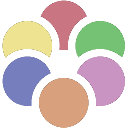
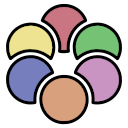
Show AP item category + fix vanilla d3 access

Changed region(s): [[0.0, 0.0, 1.0, 1.0]]

diff --git a/src/ServiceContainer/ComponentModelContainer.cs b/src/ServiceContainer/ComponentModelContainer.cs
@@ -116,16 +116,6 @@ public class ComponentModelContainer : IServiceContainer, IBuildable
             "MinishootRandomizer.Resources.images"
         ));
 
-        _serviceContainer.AddService(typeof(IItemPresentationProvider), new CoreItemPresentationProvider(
-            (ISpriteProvider)_serviceContainer.GetService(typeof(ISpriteProvider))
-        ));
-
-        _serviceContainer.AddService(typeof(IGameObjectFactory), new SpriteBasedFactory(
-            (CloneBasedFactory)_serviceContainer.GetService(typeof(CloneBasedFactory)),
-            (IItemPresentationProvider)_serviceContainer.GetService(typeof(IItemPresentationProvider)),
-            (ILogger)_serviceContainer.GetService(typeof(ILogger))
-        ));
-
         _serviceContainer.AddService(typeof(PickupManager), new PickupManager());
         ((GameEventDispatcher)_serviceContainer.GetService(typeof(GameEventDispatcher))).LoadingSaveFile
             += ((PickupManager)_serviceContainer.GetService(typeof(PickupManager))).OnLoadingSaveFile;
@@ -137,13 +127,6 @@ public class ComponentModelContainer : IServiceContainer, IBuildable
             += ((PickupManager)_serviceContainer.GetService(typeof(PickupManager))).OnEnteringEncounter;
         ((GameEventDispatcher)_serviceContainer.GetService(typeof(GameEventDispatcher))).ExitingEncounter
             += ((PickupManager)_serviceContainer.GetService(typeof(PickupManager))).OnExitingEncounter;
-
-        _serviceContainer.AddService(typeof(ILocationVisitor), new GameObjectCreationVisitor(
-            (IGameObjectFactory)_serviceContainer.GetService(typeof(IGameObjectFactory)),
-            (IObjectFinder)_serviceContainer.GetService(typeof(IObjectFinder)),
-            (PickupManager)_serviceContainer.GetService(typeof(PickupManager)),
-            (ILogger)_serviceContainer.GetService(typeof(ILogger))
-        ));
 
         _serviceContainer.AddService(typeof(IProgressionStorage), new WorldStateProgressionStorage());
 
@@ -187,6 +170,24 @@ public class ComponentModelContainer : IServiceContainer, IBuildable
 
         _serviceContainer.AddService(typeof(IRandomizerEngine), _serviceContainer.GetService(typeof(ContextualRandomizerEngine)));
         
+        _serviceContainer.AddService(typeof(IItemPresentationProvider), new CoreItemPresentationProvider(
+            (ISpriteProvider)_serviceContainer.GetService(typeof(ISpriteProvider)),
+            (IRandomizerEngine)_serviceContainer.GetService(typeof(IRandomizerEngine))
+        ));
+
+        _serviceContainer.AddService(typeof(IGameObjectFactory), new SpriteBasedFactory(
+            (CloneBasedFactory)_serviceContainer.GetService(typeof(CloneBasedFactory)),
+            (IItemPresentationProvider)_serviceContainer.GetService(typeof(IItemPresentationProvider)),
+            (ILogger)_serviceContainer.GetService(typeof(ILogger))
+        ));
+
+        _serviceContainer.AddService(typeof(ILocationVisitor), new GameObjectCreationVisitor(
+            (IGameObjectFactory)_serviceContainer.GetService(typeof(IGameObjectFactory)),
+            (IObjectFinder)_serviceContainer.GetService(typeof(IObjectFinder)),
+            (PickupManager)_serviceContainer.GetService(typeof(PickupManager)),
+            (ILogger)_serviceContainer.GetService(typeof(ILogger))
+        ));
+
         _serviceContainer.AddService(typeof(ISettingsProvider), new EngineAwareSettingsProvider(
             (IRandomizerEngine)_serviceContainer.GetService(typeof(IRandomizerEngine))
         ));

diff --git a/src/Randomizer/PresentationProvider/Item/CoreItemPresentationProvider.cs b/src/Randomizer/PresentationProvider/Item/CoreItemPresentationProvider.cs
@@ -3,15 +3,43 @@ namespace MinishootRandomizer;
 public class CoreItemPresentationProvider : IItemPresentationProvider
 {
     private readonly ISpriteProvider _spriteProvider;
+    private readonly IRandomizerEngine _randomizerEngine;
 
-    public CoreItemPresentationProvider(ISpriteProvider spriteProvider)
-    {
+    public CoreItemPresentationProvider(
+        ISpriteProvider spriteProvider,
+        IRandomizerEngine randomizerEngine
+    ) {
         _spriteProvider = spriteProvider;
+        _randomizerEngine = randomizerEngine;
     }
 
     public ItemPresenation GetItemPresentation(Item item)
     {
         string spriteIdentifier = item.GetSpriteIdentifier();
+
+        // For ArchipelagoItems, we need to adjust the sprite depending on settings and item category.
+        if (item is ArchipelagoItem)
+        {
+            ShowArchipelagoItemCategory setting = _randomizerEngine.GetSetting<ShowArchipelagoItemCategory>();
+            if (setting.Enabled)
+            {
+                switch (item.Category)
+                {
+                    case ItemCategory.Progression:
+                    case ItemCategory.Token:
+                        spriteIdentifier = "ArchipelagoArrowUp";
+                        break;
+                    case ItemCategory.Filler:
+                    case ItemCategory.Trap:
+                        spriteIdentifier = "ArchipelagoGrayscale";
+                        break;
+                    default:
+                        spriteIdentifier = "Archipelago";
+                        break;
+                }
+            }
+        }
+
         ItemPresenation itemPresenation = new ItemPresenation(
             item,
             item.Identifier,

diff --git a/src/Randomizer/SpriteProvider/File/FileSpriteProvider.cs b/src/Randomizer/SpriteProvider/File/FileSpriteProvider.cs
@@ -13,13 +13,15 @@ public class FileSpriteProvider : ISpriteProvider
     private Dictionary<string, SpriteFileData> _spriteFiles = new Dictionary<string, SpriteFileData>()
     {
         { "Archipelago", new SpriteFileData("archipelago.png", 128, 128, 0.7f) },
+        { "ArchipelagoArrowUp", new SpriteFileData("archipelago_arrow_up.png", 128, 128, 0.7f) },
+        { "ArchipelagoGrayscale", new SpriteFileData("archipelago_grayscale.png", 128, 128, 0.7f) },
         { "Scarab", new SpriteFileData("scarab.png", 108, 108)},
         { "Spirit", new SpriteFileData("spirit.png", 51, 73)},
         { "LocationMarker", new SpriteFileData("location_marker.png", 116, 180)},
         { "NpcMarker", new SpriteFileData("npc_marker.png", 148, 172)},
         { "ScarabMarker", new SpriteFileData("scarab_marker.png", 148, 172)},
         { "SpiritMarker", new SpriteFileData("spirit_marker.png", 148, 172)},
-        { "SuperCrystal", new SpriteFileData("super_crystal.png", 52, 52, 1.75f, -20f) }
+        { "SuperCrystal", new SpriteFileData("super_crystal.png", 92, 92, 1f, -20f) }
     };
 
     public FileSpriteProvider(ISpriteProvider innerProvider, string rootPath)

diff --git a/src/Randomizer/Engine/Archipelago/ArchipelagoRandomizerEngine.cs b/src/Randomizer/Engine/Archipelago/ArchipelagoRandomizerEngine.cs
@@ -184,6 +184,7 @@ public class ArchipelagoRandomizerEngine : IRandomizerEngine
             { typeof(BoostlessSpringboards), new BoostlessSpringboards(GetBooleanSettingValue("boostless_springboards")) },
             { typeof(BoostlessSpiritRaces), new BoostlessSpiritRaces(GetBooleanSettingValue("boostless_spirit_races")) },
             { typeof(BoostlessTorchRaces), new BoostlessTorchRaces(GetBooleanSettingValue("boostless_torch_races")) },
+            { typeof(ShowArchipelagoItemCategory), new ShowArchipelagoItemCategory(GetBooleanSettingValue("show_archipelago_item_category")) },
             { typeof(CompletionGoals), new CompletionGoals(GetGoalsSettingValue()) },
         };
     }

diff --git a/src/Randomizer/Engine/Dummy/DummyRandomizerEngine.cs b/src/Randomizer/Engine/Dummy/DummyRandomizerEngine.cs
@@ -23,6 +23,7 @@ public class DummyRandomizerEngine : IRandomizerEngine
         { typeof(BoostlessSpringboards), new BoostlessSpringboards(true) },
         { typeof(BoostlessSpiritRaces), new BoostlessSpiritRaces(true) },
         { typeof(BoostlessTorchRaces), new BoostlessTorchRaces(true) },
+        { typeof(ShowArchipelagoItemCategory), new ShowArchipelagoItemCategory(false) },
         { typeof(CompletionGoals), new CompletionGoals(Goals.Both) },
     };
 

diff --git a/src/Model/Item/ArchipelagoItem.cs b/src/Model/Item/ArchipelagoItem.cs
@@ -13,6 +13,7 @@ public class ArchipelagoItem : Item
 
     public override string GetSpriteIdentifier()
     {
+        // Note that the sprite might be different depending on settings, cf ItemPresentationProvider.
         return "Archipelago";
     }
 

diff --git a/src/Randomizer/Settings/ShowArchipelagoItemCategory.cs b/src/Randomizer/Settings/ShowArchipelagoItemCategory.cs
@@ -1,0 +1,7 @@
+namespace MinishootRandomizer;
+
+public class ShowArchipelagoItemCategory : BooleanSetting
+{
+    public ShowArchipelagoItemCategory(bool enabled) : base(enabled)
+    {}
+}

diff --git a/CHANGELOG.md b/CHANGELOG.md
@@ -26,13 +26,15 @@ and this project adheres to [Semantic Versioning](https://semver.org/spec/v2.0.0
 - Replaced items (such as tracker items and the extra cannon level, cf "Removed") are now replaced by filler items.
     - Those filler items are Super Crystals drops of various amounts.
     - On Archipelago, in case a location cannot be filled, it will be filled with a filler item instead.
-- A new setting called "Boostless Springboards" has been added
+- A new setting called "Boostless Springboards" has been added.
     - When enabled, the springboards can logically be used with the dash, instead of needing the boost.
-- A new setting called "Boostless Spirit Races" has been added
+- A new setting called "Boostless Spirit Races" has been added.
     - When enabled, most races against spirits can logically be beaten with the dash, instead of needing the boost.
     - Note that the races at Beach, Scarab Temple and Sunken City still logically need the boost.
-- A new setting called "Boostless Torch Races" has been added
+- A new setting called "Boostless Torch Races" has been added.
     - When enabled, torch races (where the player must navigate through torch gates in a limited time) can be cleared without the need for boost.
+- A new setting called "Show Archipelago item category" has been added.
+    - When enabled, Archipelago items sprites will indicate if its an important item (with an arrow pointing up), an helpful one (with the default icon), or not important (with a black and white sprite).
 
 ### Removed
 
@@ -40,6 +42,7 @@ and this project adheres to [Semantic Versioning](https://semver.org/spec/v2.0.0
 
 ### Changed
 
+- Archipelago items sprites now have a black outline to increase visibility in certain areas.
 - Changed the logic for the location "Crystal Grove Tower - Top of tower"
     - Now no longer needs the dash or boost to get to the top.
 - Changed the logic for the vanilla access to Dungeon 3 Exterior (without the surf, using the turtle)

diff --git a/README.md b/README.md
@@ -77,6 +77,8 @@ It uses [Archipelago](https://archipelago.gg) for seed generation and multiworld
     * When disabled, the keys will still be randomized within their dungeons.
 * Boss Key Sanity
     * Same thing as above, but with boss keys.
+* Show Archipelago item category
+    * When enabled, Archipelago items sprites will indicate if its an important item (with an arrow pointing up), an helpful one (with the default icon), or not important (with a black and white sprite).
 * Simple Temple Exit
     * When enabled, this setting simplifies the exit after the scarab boss in the three temples and remove the checkpoints at the three statues (where the vanilla powers are located).
     * For Temple 1 : it removes the scripted encounter, the barriers and activate the bridge.
